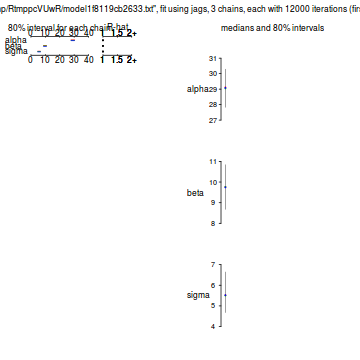
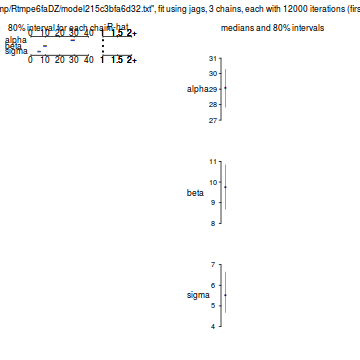
Small changes to linear regression models in JAGS

Changed region(s): [[0.0, 0.0, 1.0, 0.0611]]

diff --git a/LectureNotes/StatsCafe/Linear_models_jags.md b/LectureNotes/StatsCafe/Linear_models_jags.md
@@ -35,13 +35,13 @@ head(snakes1)
 ```
 
 ```
-    b_length    b_mass
-1 -2.6564554  5.712696
-2 -2.4404669  9.119517
-3 -1.7813084 17.362433
-4 -1.7631631  9.323737
-5 -1.3888607 18.636169
-6 -0.6399949 15.015008
+##     b_length    b_mass
+## 1 -2.6564554  5.712696
+## 2 -2.4404669  9.119517
+## 3 -1.7813084 17.362433
+## 4 -1.7631631  9.323737
+## 5 -1.3888607 18.636169
+## 6 -0.6399949 15.015008
 ```
 The body length values are drawn from a normal distribution with mean 0 and standard deviation 1, even though real body lengths can of course only have positive values. With a real data set one should always scale and center all continuous predictors before the analysis (i.e. subtract the mean and divide by the standard deviation, thereby transforming them to values with a mean of 0 and sd of 1) to avoid running into problems with model fitting. Here, we directly work with predictor values which are similar to a scaled and centered variable.
 
@@ -110,16 +110,16 @@ fit_lm1
 ```
 
 ```
-Inference for Bugs model at "/tmp/RtmppcVUwR/model1f8119cb2633.txt", fit using jags,
- 3 chains, each with 12000 iterations (first 2000 discarded), n.thin = 10
- n.sims = 3000 iterations saved
-      mu.vect sd.vect   2.5%    25%    50%    75%  97.5%  Rhat n.eff
-alpha  29.061   1.014 27.062 28.391 29.078 29.718 31.086 1.001  3000
-beta    9.750   0.853  8.023  9.182  9.757 10.302 11.409 1.001  3000
-sigma   5.600   0.800  4.290  5.042  5.516  6.078  7.376 1.001  3000
-
-For each parameter, n.eff is a crude measure of effective sample size,
-and Rhat is the potential scale reduction factor (at convergence, Rhat=1).
+## Inference for Bugs model at "/tmp/Rtmpe6faDZ/model215c3bfa6d32.txt", fit using jags,
+##  3 chains, each with 12000 iterations (first 2000 discarded), n.thin = 10
+##  n.sims = 3000 iterations saved
+##       mu.vect sd.vect   2.5%    25%    50%    75%  97.5%  Rhat n.eff
+## alpha  29.061   1.014 27.062 28.391 29.078 29.718 31.086 1.001  3000
+## beta    9.750   0.853  8.023  9.182  9.757 10.302 11.409 1.001  3000
+## sigma   5.600   0.800  4.290  5.042  5.516  6.078  7.376 1.001  3000
+## 
+## For each parameter, n.eff is a crude measure of effective sample size,
+## and Rhat is the potential scale reduction factor (at convergence, Rhat=1).
 ```
 
 This table shows the mean, standard deviation and quantiles of the marginal posterior distribution for each of the three model parameters. Note that the mean posterior values of **alpha**, **beta** and **sigma** are reasonably close to the true values that we used for the simulation (alpha = 30, beta = 10, sigma = 5). The range between the 2.5% and 97.5% quantiles is the 95% *credible interval* for each parameter. This is the Bayesian equivalent of a confidence interval, but its interpretation is different and arguably more intuitive. For example, for the 95% percent credible interval there is a 95% probability that the true parameter value lies within this range.
@@ -252,13 +252,13 @@ head(snakes2)
 ```
 
 ```
-   b_length    b_mass sex
-1 -2.656455 19.309795   1
-2 -2.440467  9.436224   0
-3 -2.414208  8.176761   0
-4 -1.781308  7.758034   0
-5 -1.763163 17.158954   1
-6 -1.717009 30.544474   1
+##    b_length    b_mass sex
+## 1 -2.656455 19.309795   1
+## 2 -2.440467  9.436224   0
+## 3 -2.414208  8.176761   0
+## 4 -1.781308  7.758034   0
+## 5 -1.763163 17.158954   1
+## 6 -1.717009 30.544474   1
 ```
 
 ```r
@@ -321,18 +321,18 @@ fit_lm2
 ```
 
 ```
-Inference for Bugs model at "/tmp/RtmppcVUwR/model1f8130446f54.txt", fit using jags,
- 3 chains, each with 12000 iterations (first 2000 discarded), n.thin = 10
- n.sims = 3000 iterations saved
-         mu.vect sd.vect   2.5%    25%    50%    75%  97.5%  Rhat n.eff
-alpha[1]  29.752   1.145 27.463 28.992 29.742 30.531 32.045 1.002  3000
-alpha[2]   4.739   1.430  1.890  3.816  4.764  5.730  7.508 1.001  3000
-beta[1]    9.545   0.835  7.842  9.018  9.560 10.101 11.175 1.001  3000
-beta[2]   -3.997   1.171 -6.335 -4.803 -4.015 -3.192 -1.713 1.001  3000
-sigma      4.916   0.536  4.009  4.536  4.866  5.245  6.116 1.001  2700
-
-For each parameter, n.eff is a crude measure of effective sample size,
-and Rhat is the potential scale reduction factor (at convergence, Rhat=1).
+## Inference for Bugs model at "/tmp/Rtmpe6faDZ/model215c43321e46.txt", fit using jags,
+##  3 chains, each with 12000 iterations (first 2000 discarded), n.thin = 10
+##  n.sims = 3000 iterations saved
+##          mu.vect sd.vect   2.5%    25%    50%    75%  97.5%  Rhat n.eff
+## alpha[1]  29.752   1.145 27.463 28.992 29.742 30.531 32.045 1.002  3000
+## alpha[2]   4.739   1.430  1.890  3.816  4.764  5.730  7.508 1.001  3000
+## beta[1]    9.545   0.835  7.842  9.018  9.560 10.101 11.175 1.001  3000
+## beta[2]   -3.997   1.171 -6.335 -4.803 -4.015 -3.192 -1.713 1.001  3000
+## sigma      4.916   0.536  4.009  4.536  4.866  5.245  6.116 1.001  2700
+## 
+## For each parameter, n.eff is a crude measure of effective sample size,
+## and Rhat is the potential scale reduction factor (at convergence, Rhat=1).
 ```
 
 The posterior means are pretty close to the true values that were used for the simulation (see above). With the fitted model, you can create the same plots of the output as before, look at convergence diagnostics, plot the data and model predictions etc.
@@ -353,9 +353,9 @@ table(sites)
 ```
 
 ```
-sites
- 1  2  3  4  5  6  7  8  9 10 
-24 23 22 19 23 19 18 13 20 19 
+## sites
+##  1  2  3  4  5  6  7  8  9 10 
+## 24 23 22 19 23 19 18 13 20 19
 ```
 
 ```r
@@ -379,13 +379,13 @@ head(snakes3)
 ```
 
 ```
-   b_length   b_mass site
-1 -2.993090 14.66808    1
-2 -2.656455 14.06197    6
-3 -2.440467 20.24723    7
-4 -2.414208 16.23954    5
-5 -2.024678 15.22331    9
-6 -1.781308 32.70772    2
+##    b_length   b_mass site
+## 1 -2.993090 14.66808    1
+## 2 -2.656455 14.06197    6
+## 3 -2.440467 20.24723    7
+## 4 -2.414208 16.23954    5
+## 5 -2.024678 15.22331    9
+## 6 -1.781308 32.70772    2
 ```
 
 ```r
@@ -448,21 +448,17 @@ fit_lm3
 ```
 
 ```
-Inference for Bugs model at "/tmp/RtmppcVUwR/model1f81352c5dd1.txt", fit using jags,
- 3 chains, each with 20000 iterations (first 5000 discarded), n.thin = 10
- n.sims = 4500 iterations saved
-        mu.vect sd.vect   2.5%    25%    50%    75%  97.5%  Rhat n.eff
-alpha    42.669   4.387 31.091 41.305 43.530 45.201 47.948 1.003  4500
-beta      9.893   0.348  9.205  9.662  9.905 10.133 10.553 1.001  2700
-sigma     4.759   0.252  4.296  4.588  4.742  4.919  5.287 1.001  4100
-sigma_a   8.775   4.284  4.685  6.263  7.702  9.849 19.739 1.001  4500
-
-For each parameter, n.eff is a crude measure of effective sample size,
-and Rhat is the potential scale reduction factor (at convergence, Rhat=1).
+## Inference for Bugs model at "/tmp/Rtmpe6faDZ/model215c427ed6db.txt", fit using jags,
+##  3 chains, each with 20000 iterations (first 5000 discarded), n.thin = 10
+##  n.sims = 4500 iterations saved
+##         mu.vect sd.vect   2.5%    25%    50%    75%  97.5%  Rhat n.eff
+## alpha    42.669   4.387 31.091 41.305 43.530 45.201 47.948 1.003  4500
+## beta      9.893   0.348  9.205  9.662  9.905 10.133 10.553 1.001  2700
+## sigma     4.759   0.252  4.296  4.588  4.742  4.919  5.287 1.001  4100
+## sigma_a   8.775   4.284  4.685  6.263  7.702  9.849 19.739 1.001  4500
+## 
+## For each parameter, n.eff is a crude measure of effective sample size,
+## and Rhat is the potential scale reduction factor (at convergence, Rhat=1).
 ```
 
 Again, the estimated mean posterior values are pretty close to the true values used for the simulation.
-
----
-
-**Copyright and reuse**: Copyright belongs to the author (see author statement at the top). Reuse of this material is permitted under the Creative Commons Attribution-NonCommercial-ShareAlike (CC BY-NC-SA) International License 4.0.
